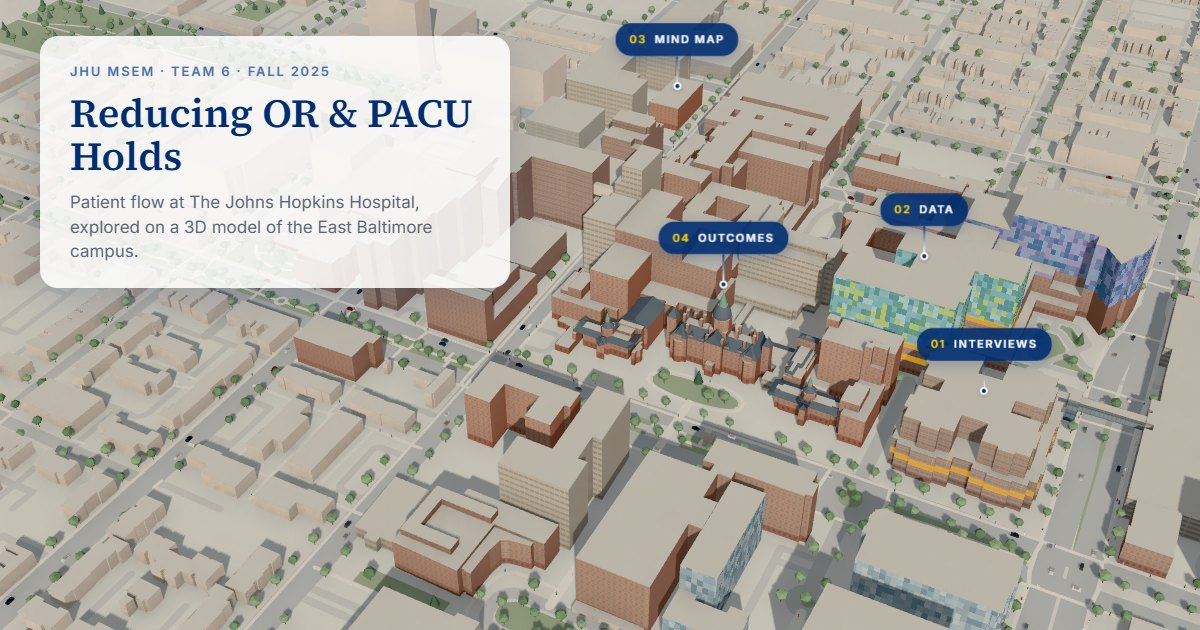
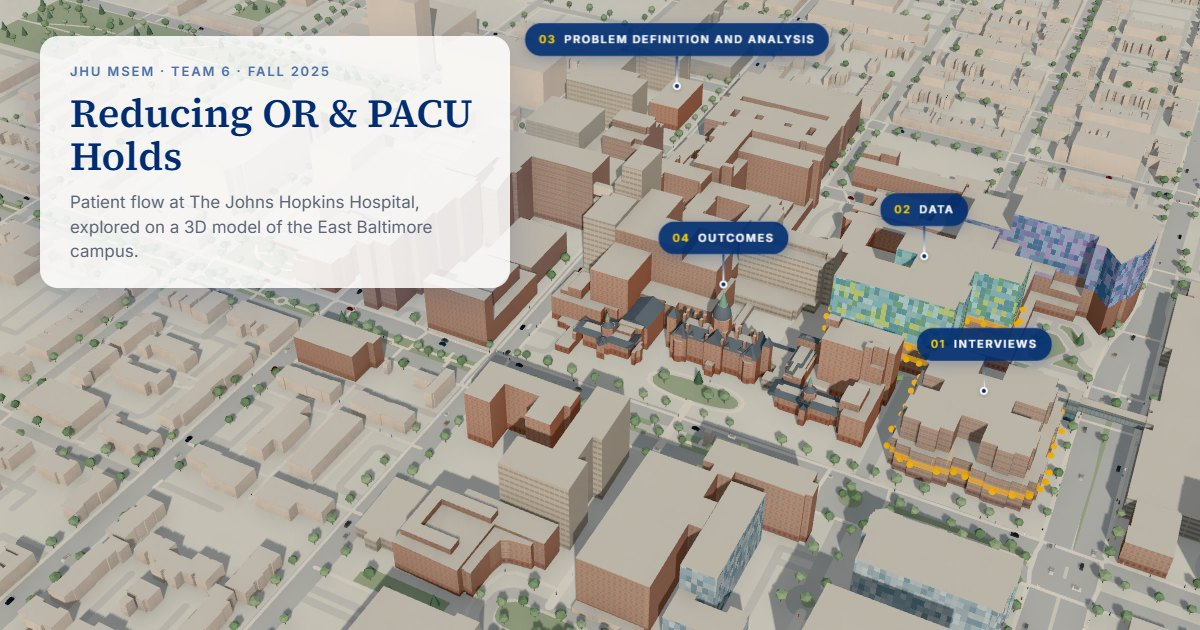
Rename module 03's label to Problem Definition and Analysis
Long labels wrap on phones; the social card and fallback still are re-rendered.

diff --git a/src/styles/global.css b/src/styles/global.css
@@ -1008,8 +1008,13 @@ a {
     bottom: 208px;
   }
 
+  /* long labels wrap to two lines instead of spanning the screen */
   .module-label .pill {
+    max-width: 250px;
     padding: 10px 14px;
+    border-radius: 18px;
+    line-height: 1.3;
+    white-space: normal;
   }
 
   .hint,

diff --git a/src/content/modules.ts b/src/content/modules.ts
@@ -55,7 +55,7 @@ export const MODULES: Record<ModuleKey, ModuleInfo> = {
   },
   thinking: {
     n: '03',
-    label: 'Mind Map',
+    label: 'Problem Definition and Analysis',
     verb: 'Synthesize',
     title: 'Problem Definition & Root Causes',
     building: 'welch',
